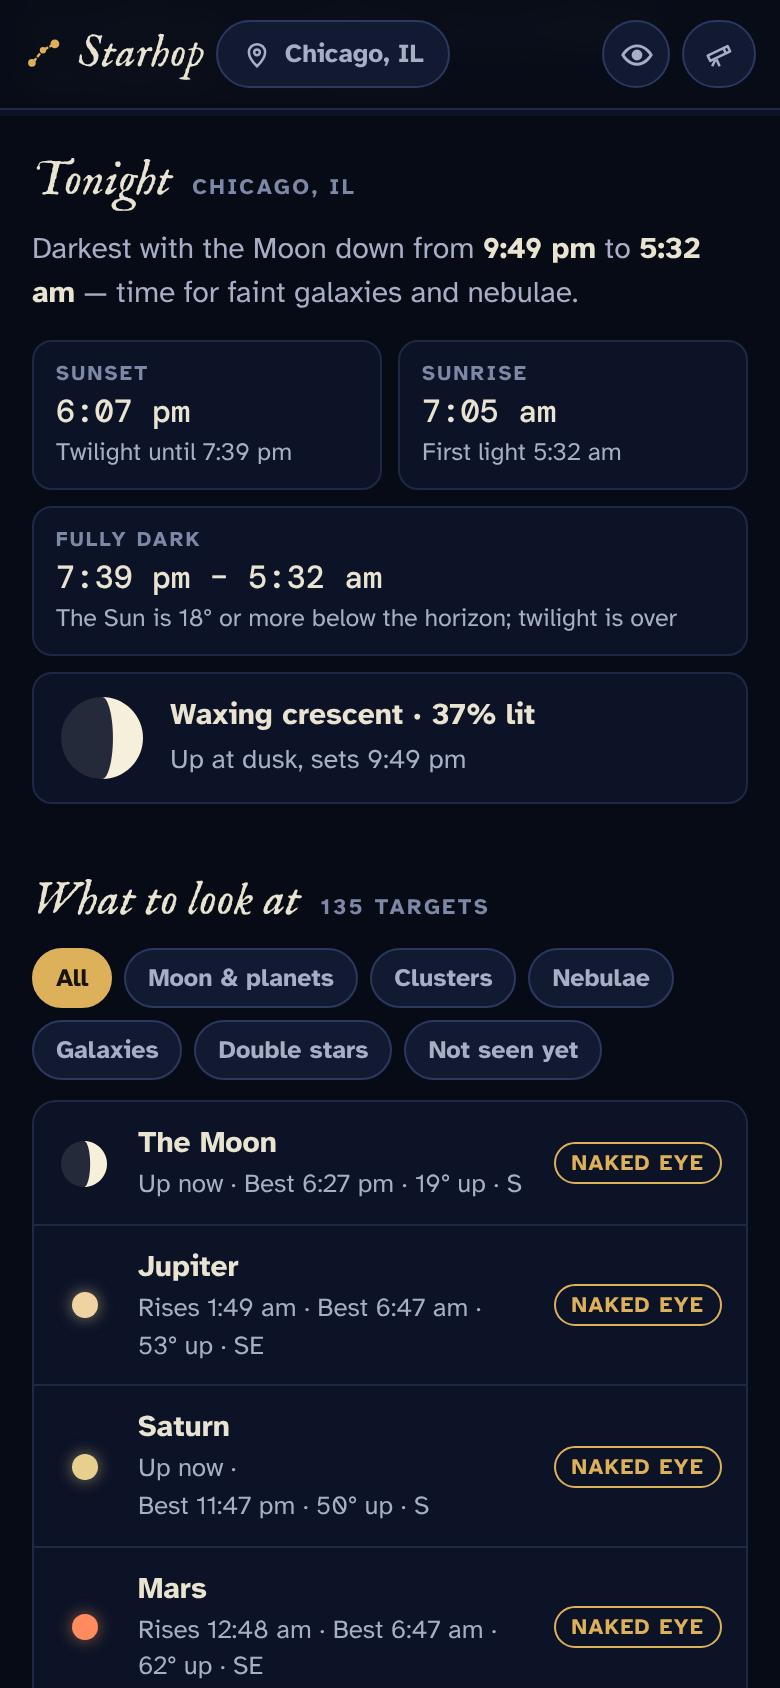
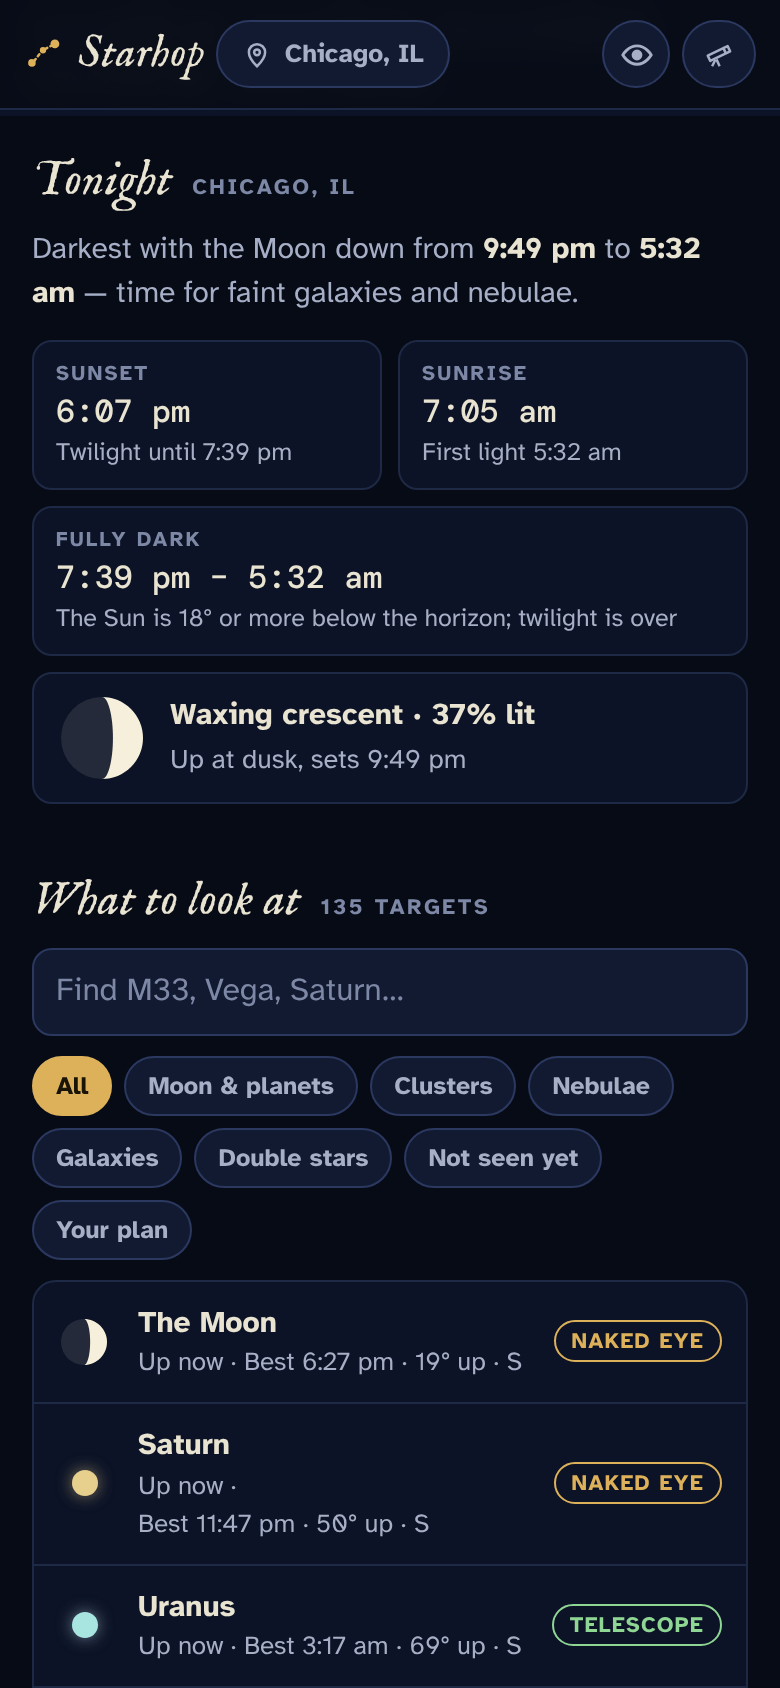
Redraw the screenshots with Find, Your plan and the evening order
The Tonight screenshot and the link preview now show the Find box and the Your plan chip, and the list in its evening order, with Saturn and Uranus, up now, above Jupiter, which rises later. The card's screenshot shows that list behind it. The README's description of the Tonight screenshot says so.

Claude-Session: https://claude.ai/code/session_01PQbLNTAXcaHQLw4gyMdC8u

diff --git a/README.md b/README.md
@@ -7,7 +7,7 @@
 <p align="center">
   <img src="docs/phone-sky.png" alt="Starhop on a phone at 9:15 pm in Chicago: the whole sky as a round map with constellation lines and names, Saturn, Uranus and a crescent Moon setting in the southwest, the night's timeline from sunset to sunrise below it, and the start of tonight's summary" width="250">
   &nbsp;
-  <img src="docs/phone-tonight.png" alt="Tonight in Chicago: darkest with the Moon down from 9:49 pm to 5:32 am, the sunset, sunrise and fully dark times, a 37% lit Moon, and the start of the list of what to look at, with the Moon, Jupiter, Saturn, Mars and Uranus" width="250">
+  <img src="docs/phone-tonight.png" alt="Tonight in Chicago: darkest with the Moon down from 9:49 pm to 5:32 am, the sunset, sunrise and fully dark times, a 37% lit Moon, and the start of what to look at: the Find box, the filters with Your plan, then the Moon, Saturn and Uranus, all up now" width="250">
   &nbsp;
   <img src="docs/phone-card.png" alt="The card for M13, the Great Hercules Cluster: 29° up in the northwest, when it sets and rises, and a finder chart with a dashed star-hop line from η Her through the cluster to Tianji, both labelled, and a 5° finderscope circle around it" width="250">
 </p>
